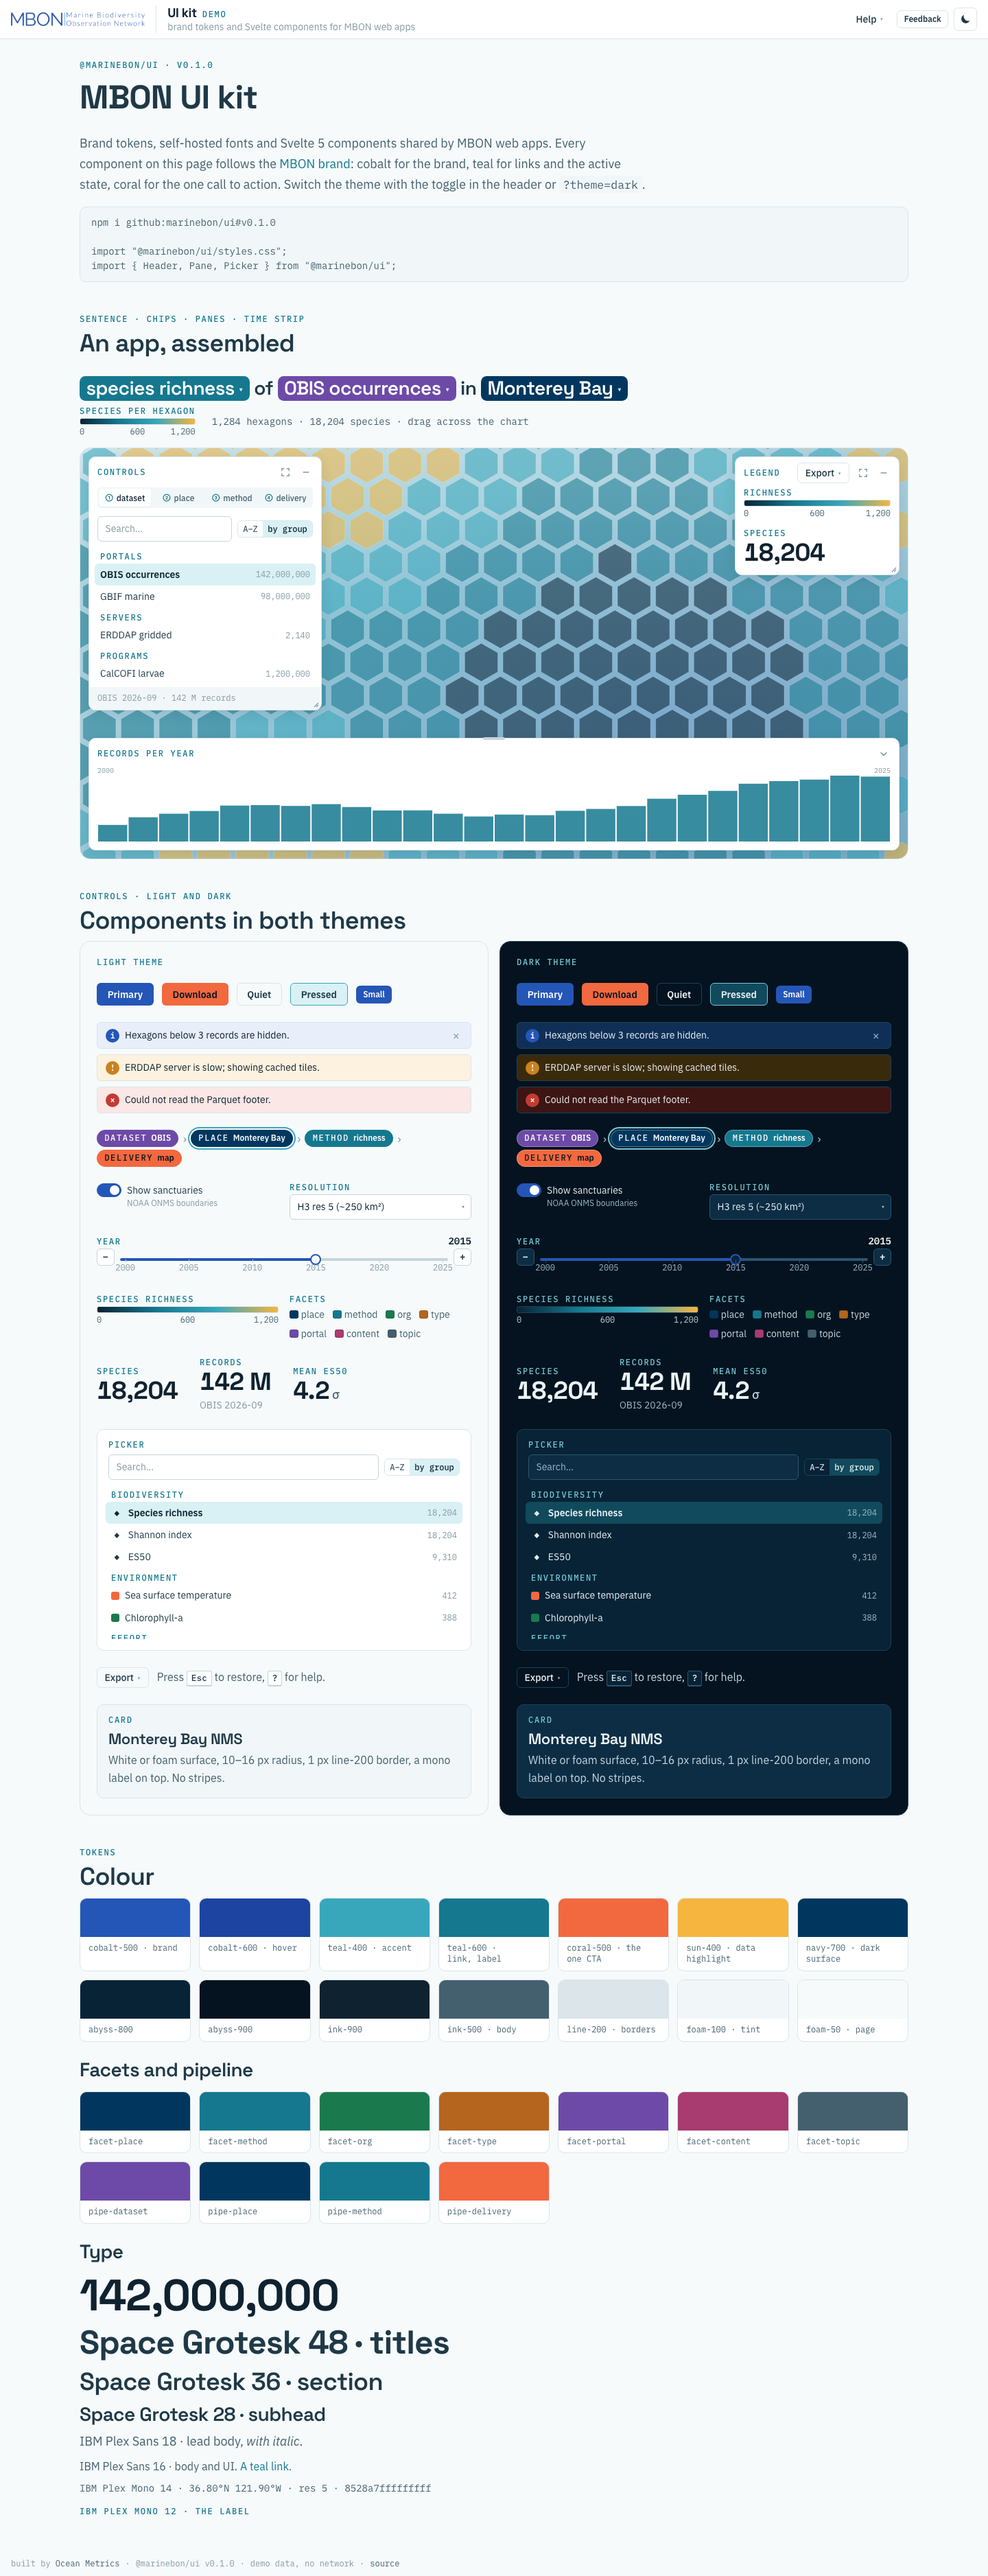
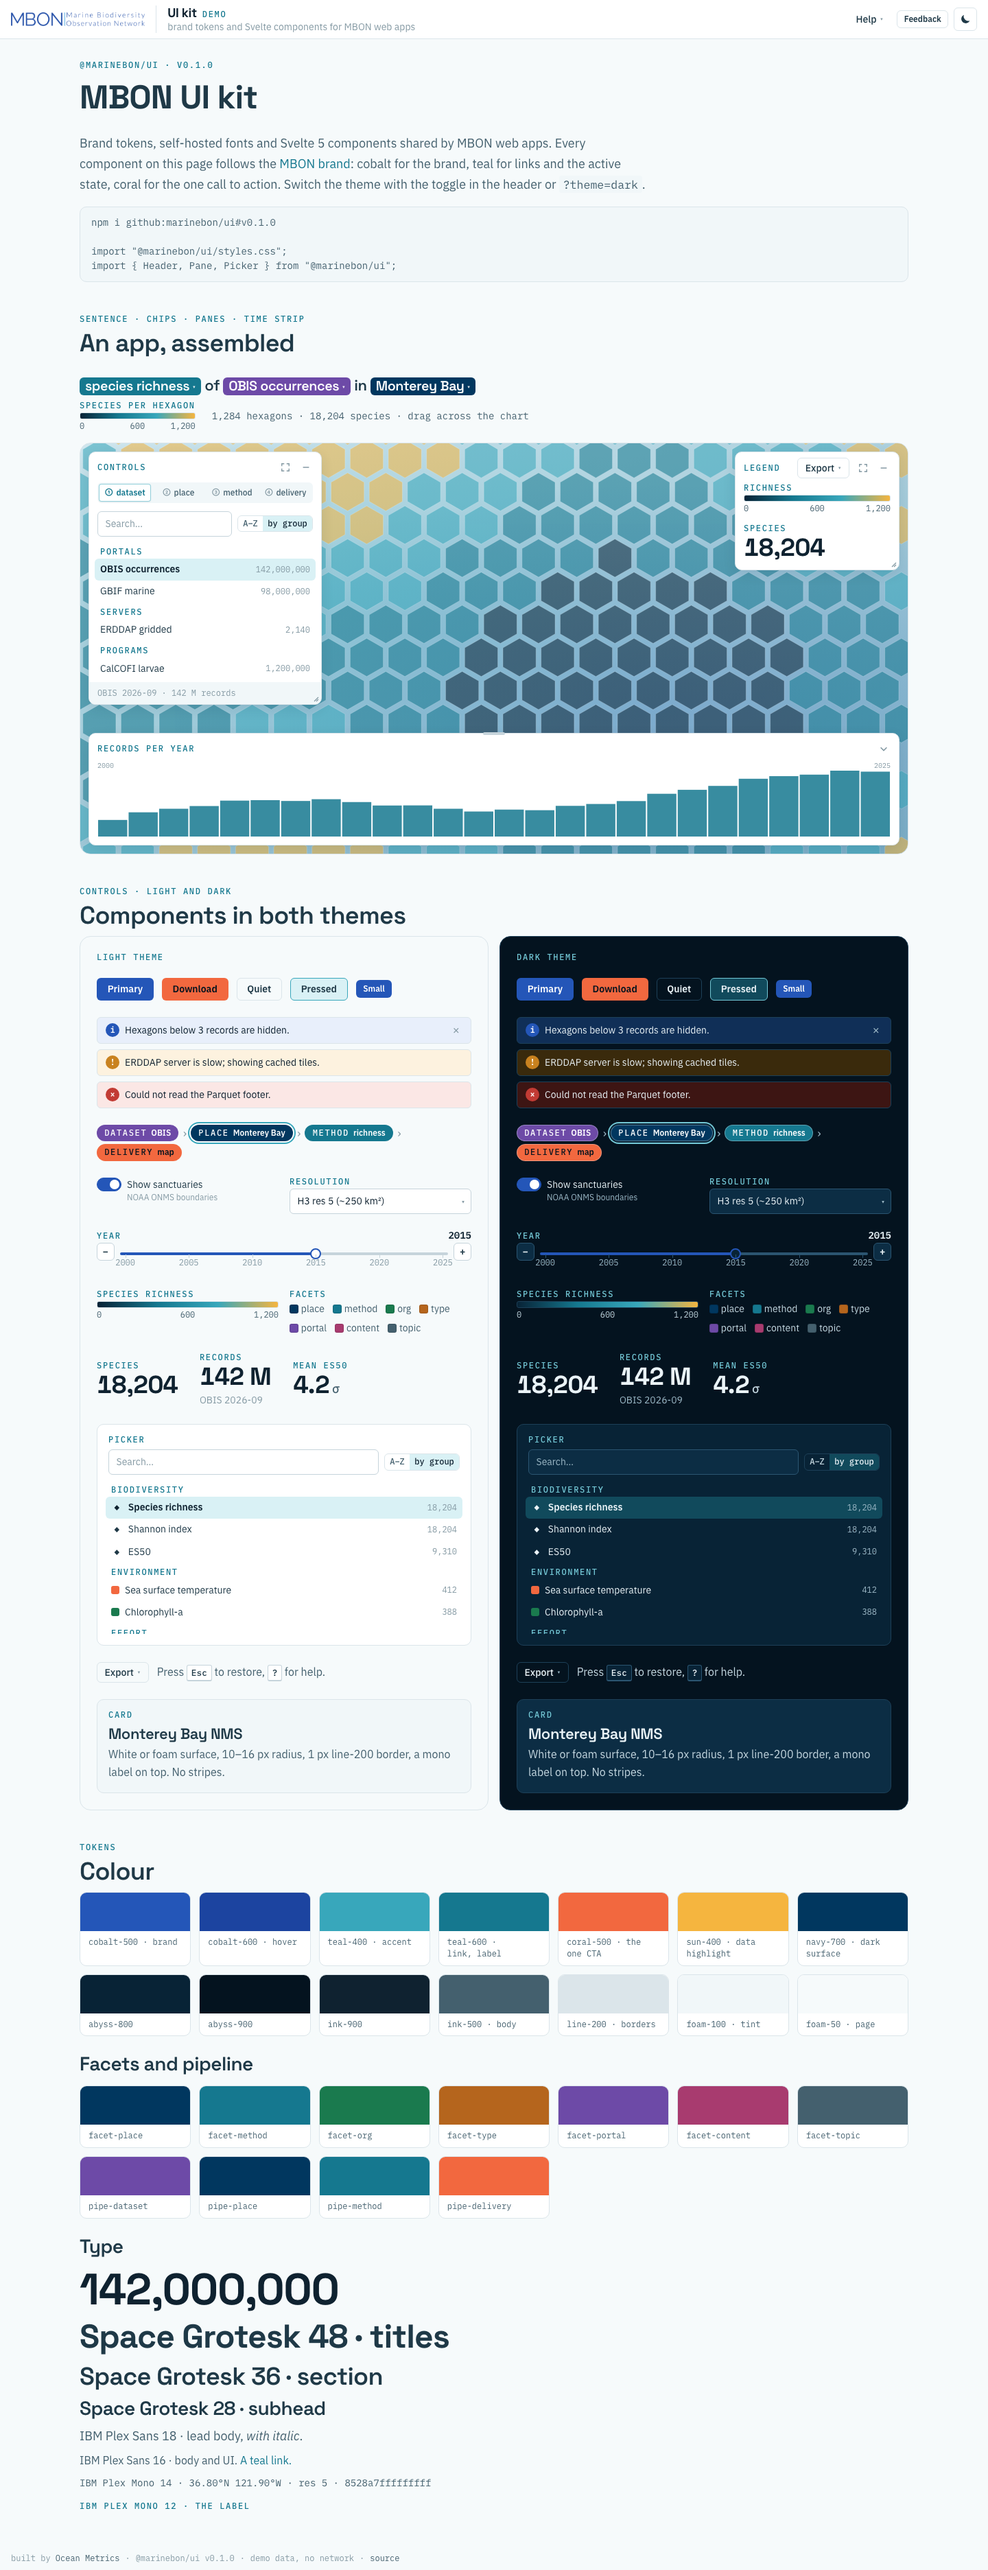
0.2.0: smaller Sentence and Chip, selected tab in accent
Sentence md 22px / lg 28px (phone 18 / 22); Chip 0.9em with tighter padding on the
baseline; Controls selected tab is semibold accent text with a 1px accent ring.
Adds Controls tests; dist/ and screenshots rebuilt.

diff --git a/tests/Controls.test.ts b/tests/Controls.test.ts
@@ -1,0 +1,47 @@
+import { describe, expect, it } from "vitest";
+import { render, screen } from "@testing-library/svelte";
+import userEvent from "@testing-library/user-event";
+import ControlsHarness from "./fixtures/ControlsHarness.svelte";
+
+const selected = () => screen.getAllByRole("tab").map((t) => t.getAttribute("aria-selected"));
+
+describe("Controls tabs", () => {
+  it("marks only the active tab aria-selected=true", () => {
+    render(ControlsHarness);
+    expect(screen.getAllByRole("tab")).toHaveLength(4);
+    expect(selected()).toEqual(["true", "false", "false", "false"]);
+    expect(screen.getByRole("tabpanel")).toHaveTextContent("panel for dataset");
+  });
+
+  it("a click moves the selection", async () => {
+    const user = userEvent.setup();
+    render(ControlsHarness);
+    await user.click(screen.getByRole("tab", { name: /Method/ }));
+    expect(selected()).toEqual(["false", "false", "true", "false"]);
+    expect(screen.getByTestId("active")).toHaveTextContent("method");
+  });
+
+  it("arrow keys, Home and End move selection and focus, wrapping around", async () => {
+    const user = userEvent.setup();
+    render(ControlsHarness);
+    const tabs = screen.getAllByRole("tab");
+    tabs[0].focus();
+    await user.keyboard("{ArrowRight}");
+    expect(selected()).toEqual(["false", "true", "false", "false"]);
+    expect(tabs[1]).toHaveFocus();
+    await user.keyboard("{ArrowLeft}{ArrowLeft}");
+    expect(selected()).toEqual(["false", "false", "false", "true"]);
+    await user.keyboard("{ArrowRight}");
+    expect(selected()).toEqual(["true", "false", "false", "false"]);
+    await user.keyboard("{End}");
+    expect(selected()).toEqual(["false", "false", "false", "true"]);
+    await user.keyboard("{Home}");
+    expect(selected()).toEqual(["true", "false", "false", "false"]);
+    expect(tabs[0]).toHaveFocus();
+  });
+
+  it("only the selected tab is in the tab order", () => {
+    render(ControlsHarness);
+    expect(screen.getAllByRole("tab").map((t) => t.getAttribute("tabindex"))).toEqual(["0", "-1", "-1", "-1"]);
+  });
+});

diff --git a/dist/components/Controls.svelte b/dist/components/Controls.svelte
@@ -81,8 +81,16 @@ function onkeydown(e, i) {
     cursor: pointer;
   }
   [role="tab"]:hover { color: var(--text-strong); }
-  [role="tab"][aria-selected="true"] { background: var(--bg-surface); color: var(--text-strong); box-shadow: var(--shadow-xs); }
-  .num { font-size: 1.15em; color: var(--label-color); }
+  /* selected: accent text (--link = teal-600 on light, teal-300 on dark; --accent itself is only 2.8:1 on white),
+     semibold, and a 1px accent ring. never an underline bar. */
+  [role="tab"][aria-selected="true"] {
+    background: var(--bg-surface);
+    color: var(--link);
+    font-weight: var(--fw-semibold);
+    box-shadow: var(--shadow-xs), inset 0 0 0 1px color-mix(in srgb, var(--accent) 55%, transparent);
+  }
+  .num { font-size: 1.15em; color: var(--text-muted); }
+  [role="tab"][aria-selected="true"] .num { color: var(--link); }
   .tl { overflow: hidden; text-overflow: ellipsis; white-space: nowrap; }
   .panel { min-height: 4rem; }
   .panel:focus { outline: none; }

diff --git a/src/lib/components/Controls.svelte b/src/lib/components/Controls.svelte
@@ -123,8 +123,16 @@
     cursor: pointer;
   }
   [role="tab"]:hover { color: var(--text-strong); }
-  [role="tab"][aria-selected="true"] { background: var(--bg-surface); color: var(--text-strong); box-shadow: var(--shadow-xs); }
-  .num { font-size: 1.15em; color: var(--label-color); }
+  /* selected: accent text (--link = teal-600 on light, teal-300 on dark; --accent itself is only 2.8:1 on white),
+     semibold, and a 1px accent ring. never an underline bar. */
+  [role="tab"][aria-selected="true"] {
+    background: var(--bg-surface);
+    color: var(--link);
+    font-weight: var(--fw-semibold);
+    box-shadow: var(--shadow-xs), inset 0 0 0 1px color-mix(in srgb, var(--accent) 55%, transparent);
+  }
+  .num { font-size: 1.15em; color: var(--text-muted); }
+  [role="tab"][aria-selected="true"] .num { color: var(--link); }
   .tl { overflow: hidden; text-overflow: ellipsis; white-space: nowrap; }
   .panel { min-height: 4rem; }
   .panel:focus { outline: none; }

diff --git a/dist/components/Sentence.svelte b/dist/components/Sentence.svelte
@@ -16,13 +16,13 @@ export {};
   .line {
     font-family: var(--font-display);
     font-weight: var(--fw-semibold);
-    font-size: var(--text-xl);
+    font-size: var(--text-lg);
     line-height: 1.35;
     letter-spacing: var(--ls-tight);
     color: var(--text-heading);
     text-wrap: balance;
   }
-  .lg .line { font-size: var(--text-2xl); }
+  .lg .line { font-size: var(--text-xl); }
   .sub {
     display: flex;
     flex-wrap: wrap;
@@ -32,7 +32,7 @@ export {};
     color: var(--text-body);
   }
   @media (max-width: 640px) {
-    .line { font-size: var(--text-lg); }
-    .lg .line { font-size: var(--text-xl); }
+    .line { font-size: var(--text-md); }
+    .lg .line { font-size: var(--text-lg); }
   }
 </style>

diff --git a/src/lib/components/Sentence.svelte b/src/lib/components/Sentence.svelte
@@ -26,13 +26,13 @@
   .line {
     font-family: var(--font-display);
     font-weight: var(--fw-semibold);
-    font-size: var(--text-xl);
+    font-size: var(--text-lg);
     line-height: 1.35;
     letter-spacing: var(--ls-tight);
     color: var(--text-heading);
     text-wrap: balance;
   }
-  .lg .line { font-size: var(--text-2xl); }
+  .lg .line { font-size: var(--text-xl); }
   .sub {
     display: flex;
     flex-wrap: wrap;
@@ -42,7 +42,7 @@
     color: var(--text-body);
   }
   @media (max-width: 640px) {
-    .line { font-size: var(--text-lg); }
-    .lg .line { font-size: var(--text-xl); }
+    .line { font-size: var(--text-md); }
+    .lg .line { font-size: var(--text-lg); }
   }
 </style>

diff --git a/dist/components/Chip.svelte b/dist/components/Chip.svelte
@@ -81,17 +81,19 @@ function onkeydown(e) {
   .chip {
     display: inline-flex;
     align-items: baseline;
+    vertical-align: baseline;
     gap: 0.2em;
     font: inherit;
+    font-size: 0.9em;
     letter-spacing: inherit;
     color: var(--chip-fg);
     background: var(--chip-bg);
     border: 1px solid var(--facet-outline);
-    border-radius: 0.3em;
-    padding: 0 0.3em;
+    border-radius: var(--radius-sm);
+    padding: 0.05em 0.35em;
     margin: 0.05em 0;
     cursor: pointer;
-    line-height: 1.2;
+    line-height: 1.15;
   }
   .chip:hover { filter: brightness(1.12); }
   .chip[aria-expanded="true"] { box-shadow: 0 0 0 2px var(--bg-surface), 0 0 0 4px var(--accent); }

diff --git a/src/lib/components/Chip.svelte b/src/lib/components/Chip.svelte
@@ -104,17 +104,19 @@
   .chip {
     display: inline-flex;
     align-items: baseline;
+    vertical-align: baseline;
     gap: 0.2em;
     font: inherit;
+    font-size: 0.9em;
     letter-spacing: inherit;
     color: var(--chip-fg);
     background: var(--chip-bg);
     border: 1px solid var(--facet-outline);
-    border-radius: 0.3em;
-    padding: 0 0.3em;
+    border-radius: var(--radius-sm);
+    padding: 0.05em 0.35em;
     margin: 0.05em 0;
     cursor: pointer;
-    line-height: 1.2;
+    line-height: 1.15;
   }
   .chip:hover { filter: brightness(1.12); }
   .chip[aria-expanded="true"] { box-shadow: 0 0 0 2px var(--bg-surface), 0 0 0 4px var(--accent); }

diff --git a/tests/fixtures/ControlsHarness.svelte b/tests/fixtures/ControlsHarness.svelte
@@ -1,0 +1,17 @@
+<script lang="ts">
+  import Controls from "../../src/lib/components/Controls.svelte";
+  import type { ControlsTab } from "../../src/lib/types.js";
+
+  const tabs: ControlsTab[] = [
+    { id: "dataset", label: "Dataset" },
+    { id: "place", label: "Place" },
+    { id: "method", label: "Method" },
+    { id: "delivery", label: "Delivery" },
+  ];
+  let active = $state("dataset");
+</script>
+
+<Controls {tabs} bind:active>
+  {#snippet panel(id)}<p>panel for {id}</p>{/snippet}
+</Controls>
+<output data-testid="active">{active}</output>

diff --git a/NEWS.md b/NEWS.md
@@ -1,3 +1,13 @@
+# @marinebon/ui 0.2.0
+
+- `Sentence` is smaller: size `md` is now 22 px (was 28) and `lg` 28 px (was 36); on phones (640 px and
+  narrower) `md` is 18 px and `lg` 22 px.
+- `Chip` renders slightly smaller than the words around it (0.9em, tighter padding, 6 px radius) and stays on
+  the text baseline; the open ring and facet colours are unchanged.
+- `Controls`: the selected tab is easier to see: semibold accent text and number with a 1 px accent ring
+  (teal-600 on light, teal-300 on dark, both pass 4.5:1 on the tab surface). Unselected numbers are muted.
+- New `Controls` tests (selected state, arrow keys, Home/End).
+
 # @marinebon/ui 0.1.0
 
 - First release: MBON brand tokens (`tokens.css`, names from marinebon.org/brand/v1), self-hosted

diff --git a/README.md b/README.md
@@ -203,7 +203,8 @@ focus returns to the chip. The `sub` slot is the second line (colour scale, coun
 </Sentence>
 ```
 
-Sentence props: `level` (1), `size` (`md`|`lg`); snippets `children`, `sub`.
+Sentence props: `level` (1), `size` (`md` 22 px, `lg` 28 px; one step smaller on phones); snippets `children`, `sub`.
+A Chip renders at 0.9em of the sentence text.
 Chip props: `label`, `facet` (`place`|`method`|`org`|`type`|`portal`|`content`|`topic`|`dataset`|`delivery`),
 `bind:open`, `title` (popover name), `width` ("20rem"), `onopen?`, `onclose?`; snippet `children(close)`.
 
